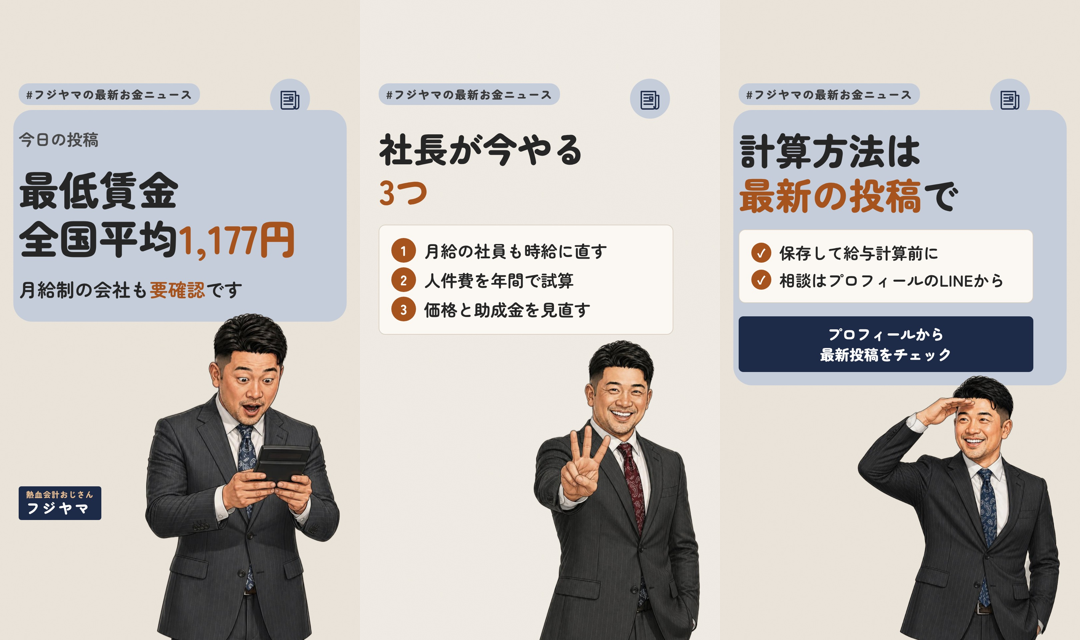
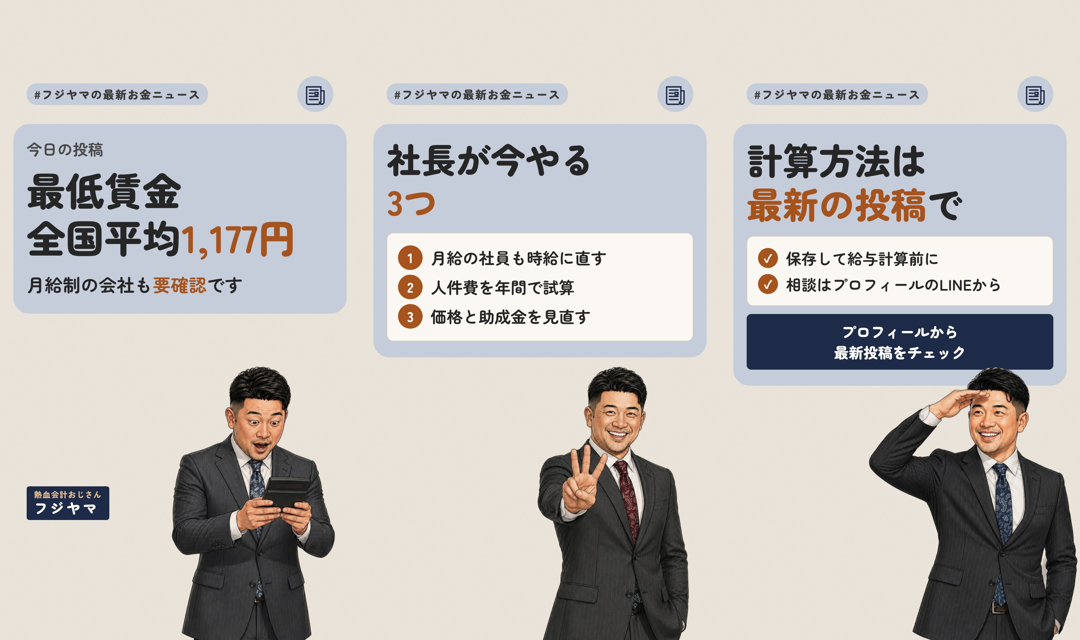
ストーリーズの配置を全フレーム固定に（ヘッダー・色ブロック・人物の位置をそろえる）

diff --git a/kit/render_story.py b/kit/render_story.py
@@ -14,40 +14,46 @@ sys.path.insert(0, str(Path(__file__).resolve().parent))
 from vertical import SERIES, ICONS, person, doc, shoot, contact  # noqa: E402
 
 
+PERSON_H = 820  # 全フレーム同じ大きさ・同じ位置（体の中心 x=760）に固定してズレを防ぐ
+TOP = 412        # 色ブロック（top 372）の内側、最初の文字の位置
+
+
 def frame(i, f, series):
     pill, tag, _ = SERIES[series]
     head = f'<div class="z tag"><i>{tag}</i></div><div class="icon">{ICONS.get(series, "")}</div>'
     t = f["type"]
+    who = person(f["pose"], PERSON_H, "anchor", f.get("flip", False)) if f.get("pose") else ""
     if t == "ask":  # 1枚目：問いかけ（今夜の投稿の予告）
         body = (f'<div class="blk"></div>'
-                f'<div class="z mid fit stack" style="top:380px;font-size:48px;color:var(--sub)">{f.get("label", "今日の投稿")}</div>'
-                f'<div class="z big fit stack" style="font-size:{f.get("size", 120)}px">{f["title"]}</div>'
-                f'<div class="z mid fit stack" style="font-size:56px" data-gap="56">{f.get("sub", "")}</div>')
-        return f'<section class="v" id="v{i}">{head}{body}{person(f["pose"], 980, "right", f.get("flip", False))}<div class="name"><small>熱血会計おじさん</small><b>フジヤマ</b></div></section>'
+                f'<div class="z mid fit stack" style="top:{TOP}px;font-size:46px;color:var(--sub)" data-maxw="920" data-gap="16">{f.get("label", "今日の投稿")}</div>'
+                f'<div class="z big fit stack" style="font-size:{f.get("size", 116)}px" data-maxw="920" data-gap="32">{f["title"]}</div>'
+                f'<div class="z mid fit stack" style="font-size:54px" data-maxw="920" data-gap="48">{f.get("sub", "")}</div>')
+        return f'<section class="v st" id="v{i}">{head}{body}{who}<div class="name"><small>熱血会計おじさん</small><b>フジヤマ</b></div></section>'
     if t == "points":  # 2枚目：要点
-        items = "".join(f'<div class="row"><span class="num">{f.get("marker", str(k + 1))}</span><span class="fit" data-maxw="760">{it}</span></div>'
+        items = "".join(f'<div class="row"><span class="num">{f.get("marker", str(k + 1))}</span><span class="fit" data-maxw="740">{it}</span></div>'
                         for k, it in enumerate(f["items"]))
-        body = (f'<div class="z big fit stack" style="top:380px;font-size:{f.get("size", 104)}px">{f["heading"]}</div>'
-                f'<div class="z card stack" style="left:56px;right:140px;padding:24px 36px;font-size:50px;font-weight:700;line-height:1.4">{items}</div>')
-        return f'<section class="v" id="v{i}" style="background:#F2EEE7">{head}{body}{person(f["pose"], 900, "right", f.get("flip", False))}</section>'
+        body = (f'<div class="blk"></div>'
+                f'<div class="z big fit stack" style="top:{TOP}px;font-size:{f.get("size", 104)}px" data-maxw="920" data-gap="32">{f["heading"]}</div>'
+                f'<div class="z card stack" style="left:80px;right:80px;padding:22px 32px;font-size:48px;font-weight:700;line-height:1.4" data-gap="48">{items}</div>')
+        return f'<section class="v st" id="v{i}">{head}{body}{who}</section>'
     if t == "cta":  # 3枚目：フィード投稿・保存・LINEへの誘導（スタンプなし）
         lines = "".join(f'<div class="row"><span class="num" style="width:60px;height:60px;font-size:34px">✓</span><span class="fit" data-maxw="760">{x}</span></div>' for x in f.get("lines", []))
         body = (f'<div class="blk"></div>'
-                f'<div class="z big fit stack" style="top:380px;font-size:{f.get("size", 110)}px">{f["heading"]}</div>'
-                f'<div class="z card stack" style="left:56px;right:140px;padding:20px 36px;font-size:48px;font-weight:700;line-height:1.4">{lines}</div>'
-                f'<div class="z btn stack" style="left:56px;right:140px">{f.get("button", "プロフィールの<br>最新投稿をチェック")}</div>')
-        return f'<section class="v" id="v{i}">{head}{body}{person(f["pose"], 900, "right", f.get("flip", False))}</section>'
+                f'<div class="z big fit stack" style="top:{TOP}px;font-size:{f.get("size", 108)}px" data-maxw="920" data-gap="32">{f["heading"]}</div>'
+                f'<div class="z card stack" style="left:80px;right:80px;padding:18px 32px;font-size:46px;font-weight:700;line-height:1.4" data-gap="24">{lines}</div>'
+                f'<div class="z btn stack" style="left:80px;right:80px" data-gap="48">{f.get("button", "プロフィールの<br>最新投稿をチェック")}</div>')
+        return f'<section class="v st" id="v{i}">{head}{body}{who}</section>'
     if t == "reel":  # リールのお知らせ：リールの表紙を縮小して再生マークを重ねる
         cover = Path(f["_dir"]) / "reel_cover.jpg"
         if not cover.exists():
             raise SystemExit("reel_cover.jpg がありません（先に render_reel.py を実行）")
-        body = (f'<div class="z big fit" style="top:330px;font-size:{f.get("size", 92)}px">{f["heading"]}</div>'
-                f'<div class="z" style="left:50%;transform:translateX(-50%);top:520px;width:540px;height:960px;border:6px solid #fff;border-radius:28px;overflow:hidden;box-shadow:0 12px 40px rgba(0,0,0,.25)">'
+        body = (f'<div class="z big fit" style="top:372px;font-size:{f.get("size", 80)}px;text-align:center" data-maxw="920">{f["heading"]}</div>'
+                f'<div class="z" style="left:50%;transform:translateX(-50%);top:610px;width:480px;height:853px;border:6px solid #fff;border-radius:28px;overflow:hidden;box-shadow:0 12px 40px rgba(0,0,0,.25)">'
                 f'<img src="{cover.as_uri()}" style="width:100%;height:100%;object-fit:cover">'
                 f'<div style="position:absolute;left:50%;top:50%;transform:translate(-50%,-50%);width:150px;height:150px;border-radius:50%;background:rgba(30,43,72,.85);display:flex;align-items:center;justify-content:center">'
                 f'<div style="width:0;height:0;border-left:56px solid #fff;border-top:34px solid transparent;border-bottom:34px solid transparent;margin-left:14px"></div></div></div>'
-                f'<div class="z mid fit" style="top:1510px;font-size:46px;text-align:center;left:56px;right:56px">{f.get("sub", "")}</div>')
-        return f'<section class="v" id="v{i}">{head}{body}</section>'
+                f'<div class="z mid fit" style="top:1490px;font-size:46px;text-align:center" data-maxw="920">{f.get("sub", "")}</div>')
+        return f'<section class="v st" id="v{i}">{head}{body}</section>'
     raise SystemExit(f"不明なストーリーズの種類: {t}")
 
 

diff --git a/kit/vertical.py b/kit/vertical.py
@@ -50,6 +50,11 @@ body{background:#777;font-family:"Zen Maru Gothic","Noto Sans CJK JP",sans-serif
 .icon{position:absolute;right:150px;top:236px;width:120px;height:120px;border-radius:50%;background:var(--series);z-index:2;display:flex;align-items:center;justify-content:center}
 .icon svg{width:76px;height:76px}
 .sub{left:56px;right:140px;background:rgba(30,43,72,.92);color:#fff;font-size:46px;font-weight:700;line-height:1.5;padding:22px 30px;border-radius:16px;white-space:nowrap;text-align:center}
+.st .tag{left:80px;right:220px;top:250px}
+.st .icon{right:80px;top:228px;width:108px;height:108px}
+.st .blk{top:372px;left:40px;right:40px;border-radius:48px}
+.st .big,.st .mid{left:80px;right:80px}
+.st .name{left:80px}
 .btn{background:var(--navy);color:#fff;font-size:44px;font-weight:900;padding:22px 34px;border-radius:14px;text-align:center;line-height:1.4}
 """
 
@@ -79,10 +84,10 @@ FIT_JS = r"""
       y = el.getBoundingClientRect().bottom - top + parseFloat(el.dataset.gap || 40);
     });
     const blk = sec.querySelector('.blk');
-    if (blk && y !== null) blk.style.height = Math.max(200, y - 330) + 'px';
+    if (blk && y !== null) { const bt = blk.getBoundingClientRect().top - top; blk.style.height = Math.max(200, y - bt) + 'px'; }
     const p = sec.querySelector('img.person');
     const lastText = [...sec.querySelectorAll('.stack, .sub')].map(e => e.getBoundingClientRect().bottom - top).reduce((a, b) => Math.max(a, b), 0);
-    if (p) { const room = 1920 - lastText - 10; const h = Math.min(parseFloat(p.dataset.h), room);
+    if (p && !p.dataset.lock) { const room = 1920 - lastText - 10; const h = Math.min(parseFloat(p.dataset.h), room);
       p.style.height = Math.max(520, h) + 'px'; }
     if (lastText > 1920 - 340) warn.push(`${i + 1}枚目: 文字が下の表示エリア（下340px）にかかっています`);
   });
@@ -103,7 +108,7 @@ def person(pose, h=900, pos="right", flip=False):
         raise SystemExit(f"ポーズがありません: {pose}")
     tf = "transform:scaleX(-1);" if flip else ""
     if pos == "anchor":  # 体の中心を x=760 に固定（ポーズの横幅が違っても顔の位置がそろう）
-        return (f'<img class="person" data-pose="{pose}" data-h="{h}" src="{p.as_uri()}" '
+        return (f'<img class="person" data-pose="{pose}" data-h="{h}" data-lock="1" src="{p.as_uri()}" '
                 f'style="left:760px;transform:translateX(-50%){" scaleX(-1)" if flip else ""};height:{h}px">')
     side = {"right": "right:60px;", "left": "left:20px;", "center": "left:50%;transform:translateX(-50%);"}[pos]
     if pos == "center" and flip:
